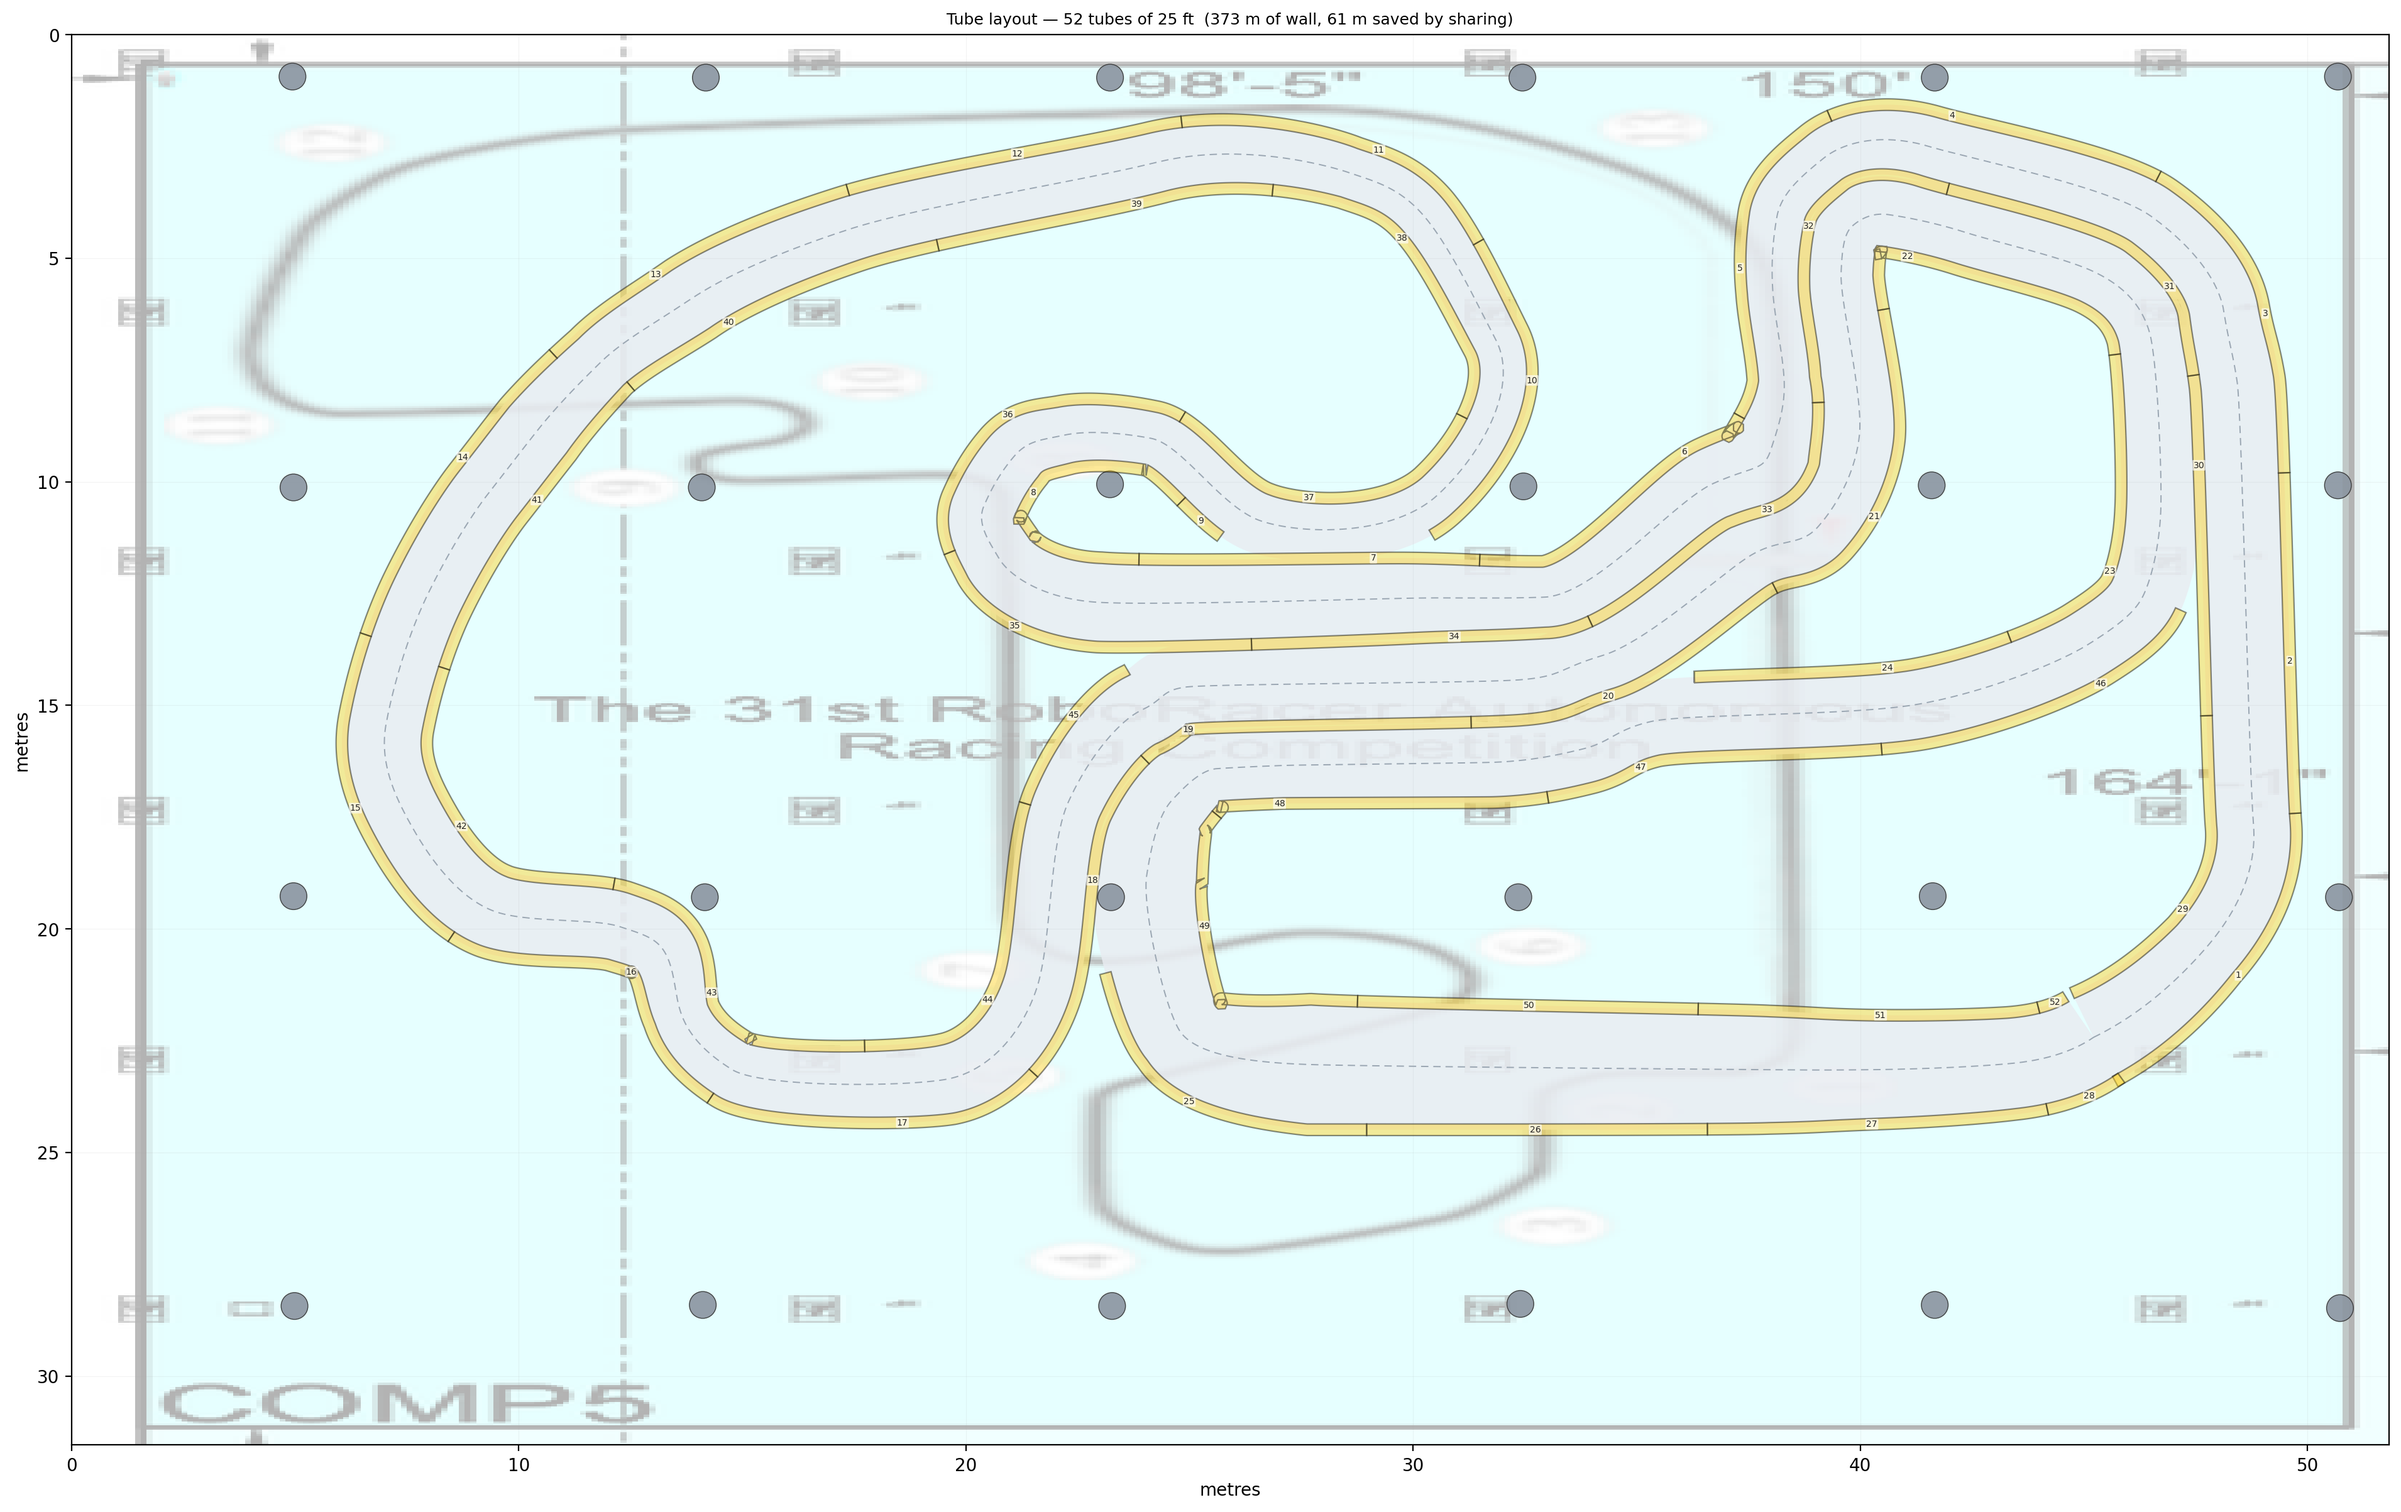
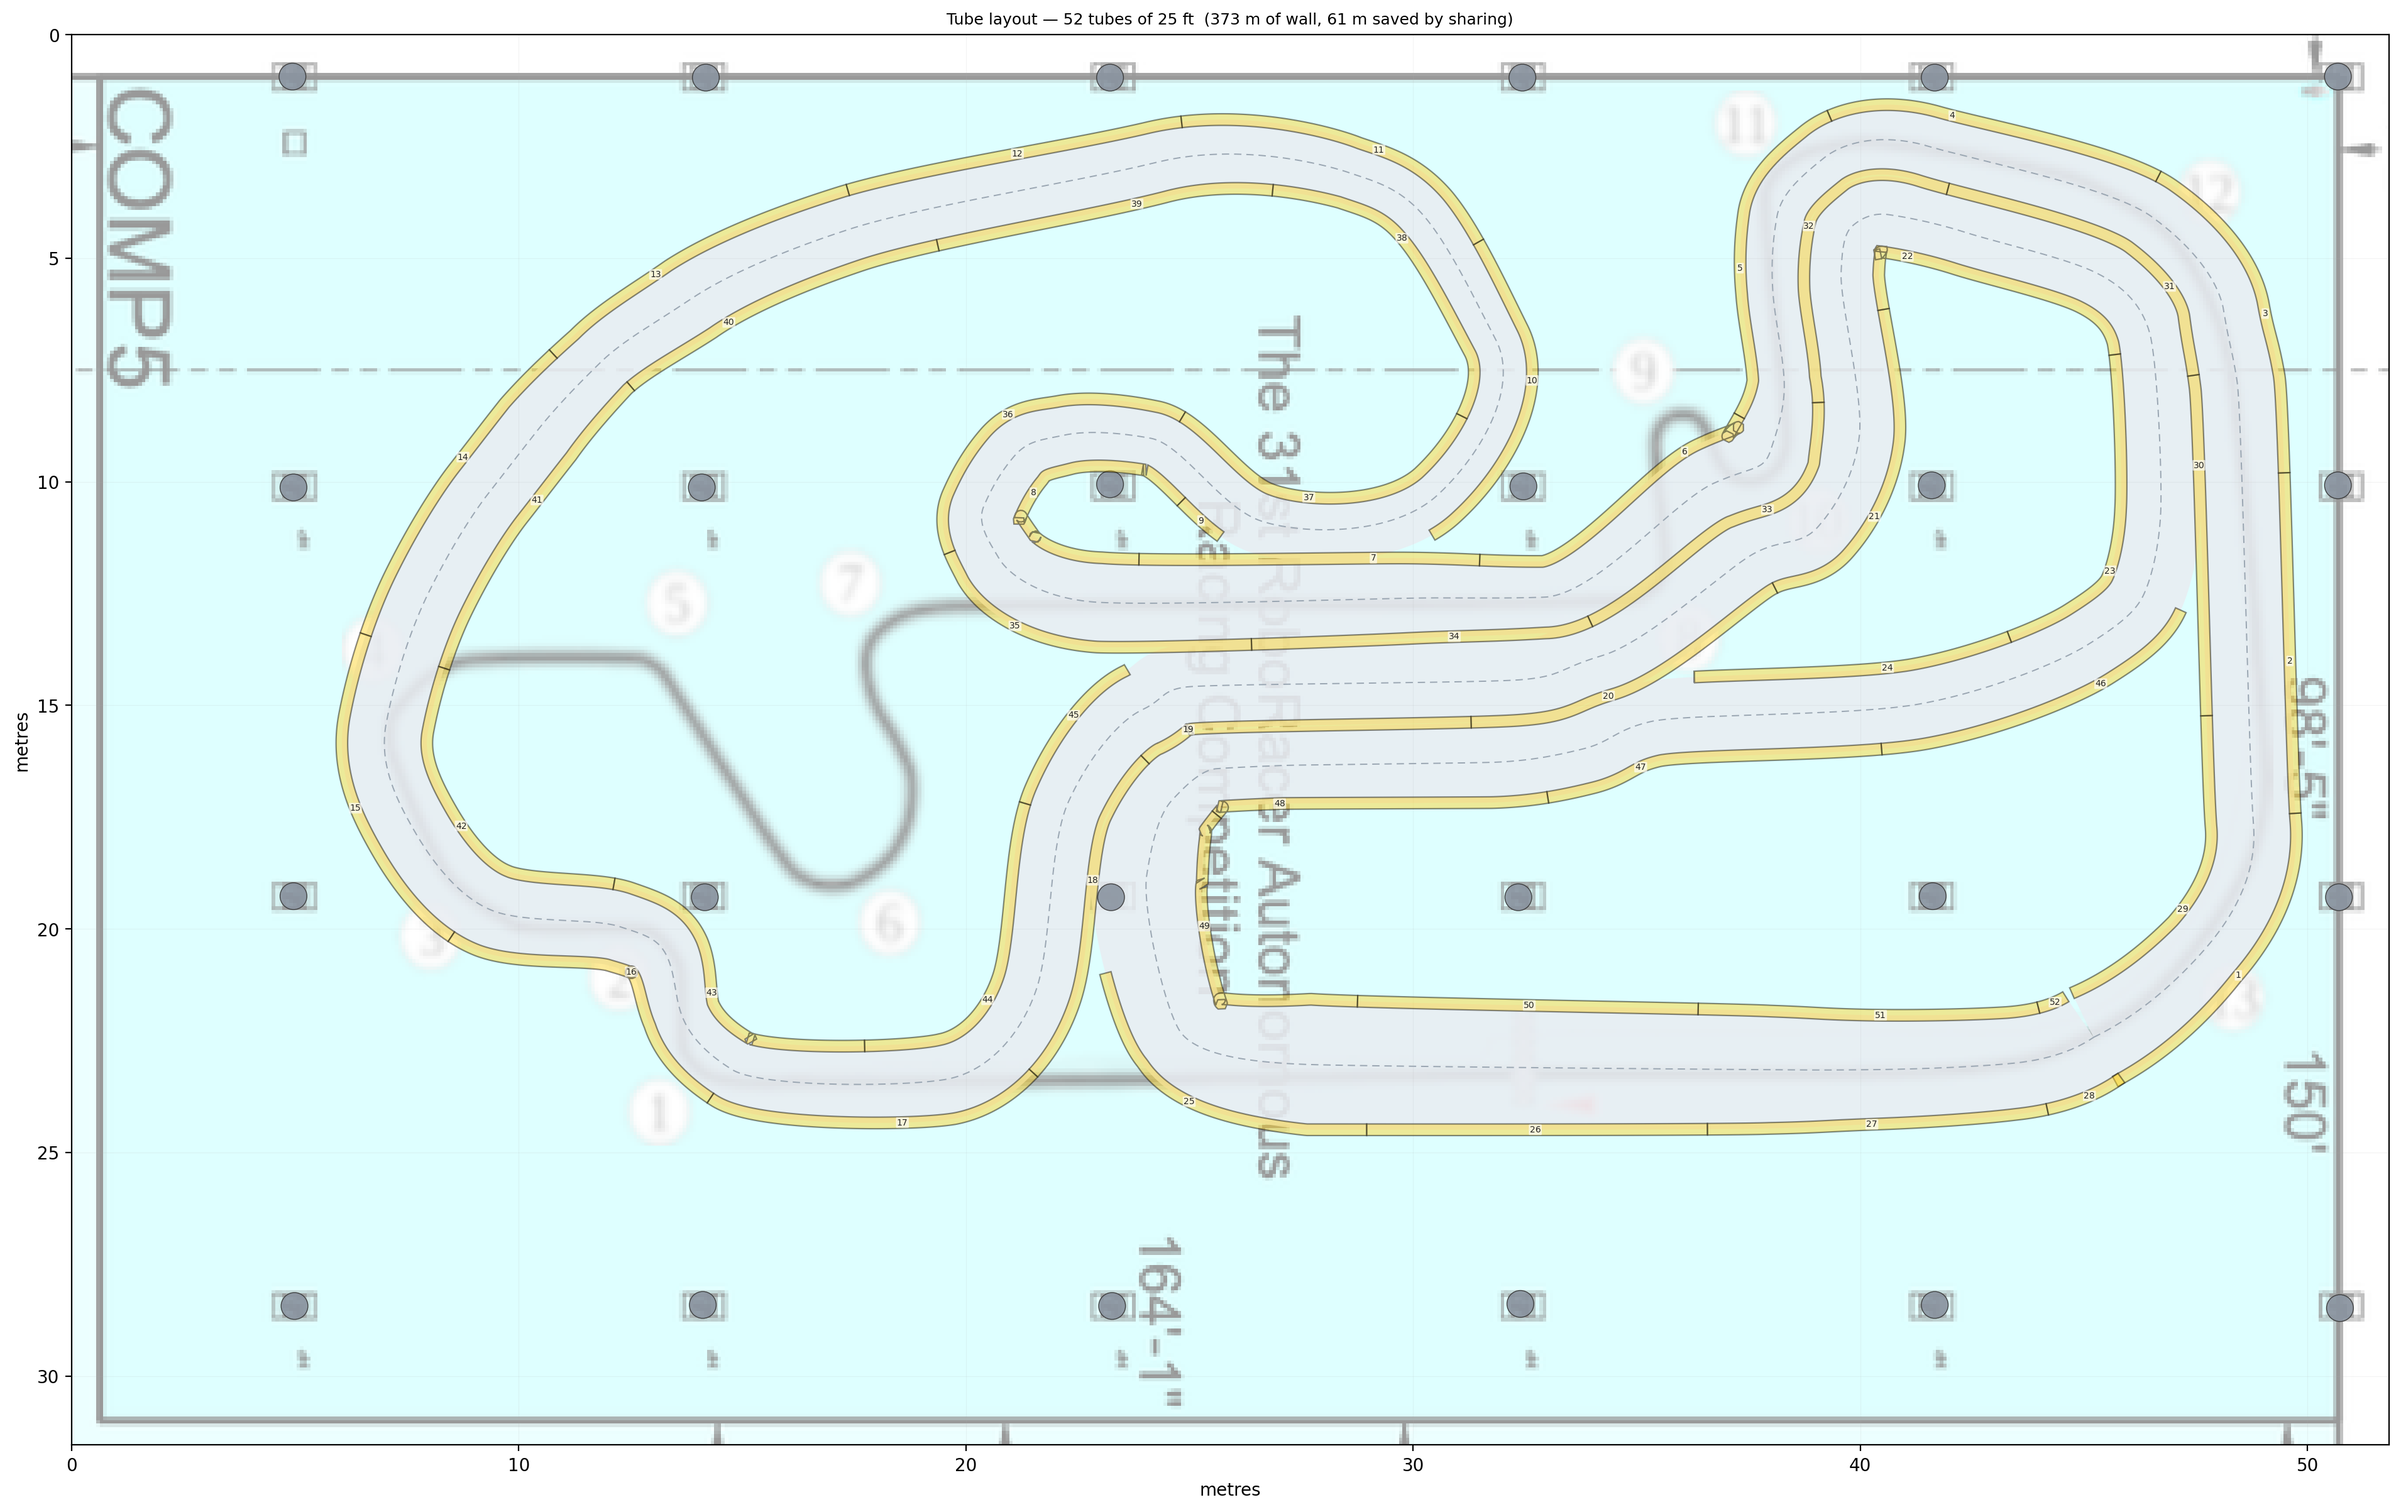
Honour the saved floor plan rotation in the tube figure
The designer stores how the plan was turned under the track (bg_rotation).
The figure drew the file as-is, so a plan rotated in the designer appeared
90 degrees off from the track laid on it. Apply the same transform, and use
the project's opacity rather than a fixed one.

diff --git a/Utils/tracks/tube_layout.py b/Utils/tracks/tube_layout.py
@@ -142,8 +142,16 @@ print(f"tubes if each run starts new: {len(tubes):3d}  ({full} full, {partial} p
 # ── draw ────────────────────────────────────────────────────────────────────
 fig, ax = plt.subplots(figsize=(RW/2.6, RH/2.6), dpi=200)
 try:
-    bg = plt.imread(BG)
-    ax.imshow(bg, extent=[0, RW, RH, 0], alpha=0.30, zorder=0)
+    from PIL import Image
+    bg = Image.open(BG).convert('RGB')
+    # the designer stores how the plan was turned under the track; match it,
+    # then stretch to the space exactly as the canvas does
+    rot = int(d.get('bg_rotation', 0)) % 360
+    if rot:
+        bg = bg.rotate(-rot, expand=True)     # PIL turns counter-clockwise
+    ax.imshow(bg, extent=[0, RW, RH, 0], zorder=0,
+              alpha=max(0.15, min(0.5, d.get('bg_opacity', 40) / 100.0)))
+    print(f"floor plan: {os.path.basename(BG)} rotated {rot} deg")
 except Exception as e:
     print("no floor plan:", e)
 
